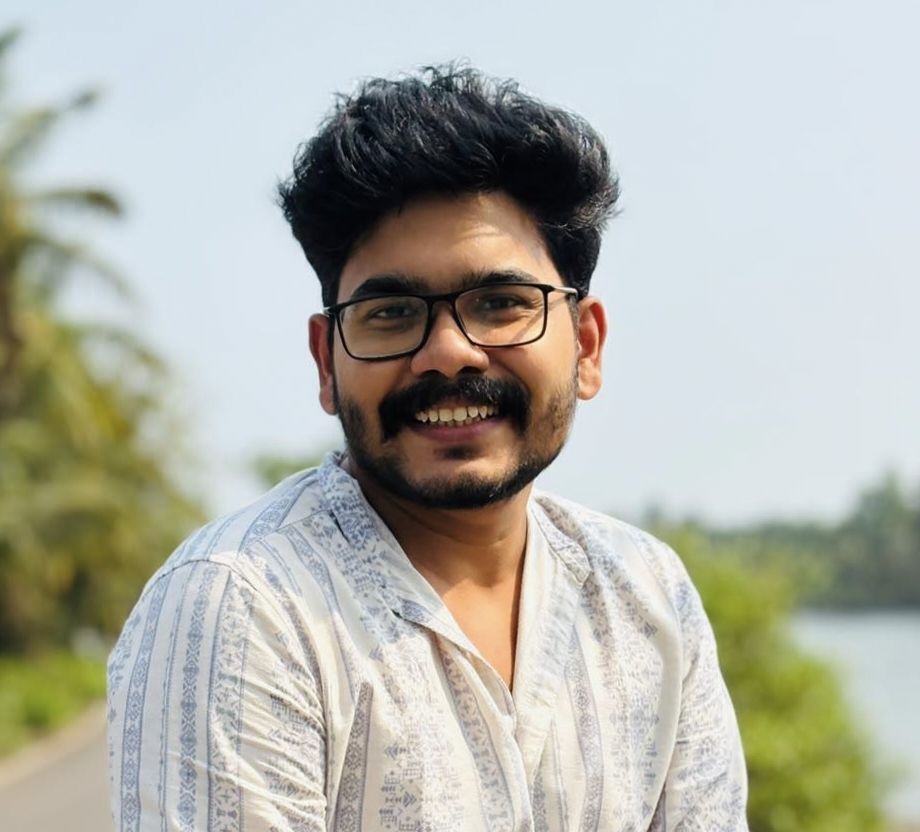
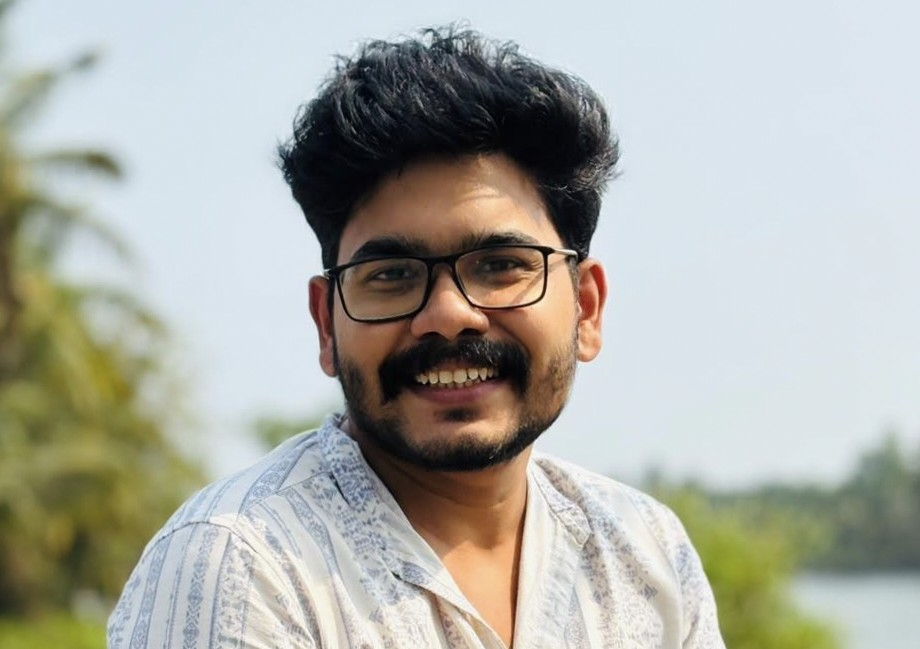
Add all project files

diff --git a/memories.html b/memories.html
@@ -74,7 +74,7 @@
                     <span>01</span>
 
                     <h3>
-                         anaghe ivide njan endh caption aann kodukkande?
+                         LIFE LATELY. A LITTLE REMINDER OF HOW SPECIAL YOU ARE ❤
                     </h3>
 
                     <p>
@@ -104,11 +104,11 @@
                     <span>02</span>
 
                     <h3>
-                        pinne ivide? ✨
+                        THAT SMILE ✨✨
                     </h3>
 
                     <p>
-                        One of my favorite memories.
+                        One of my favorite pic.
                     </p>
 
                 </div>
@@ -123,7 +123,7 @@
                 <div class="image-wrapper">
 
                     <img
-                        src="nb.jpeg"
+                        src="kkjj.jpeg"
                         alt="Memory 3"
                     >
 
@@ -134,7 +134,7 @@
                     <span>03</span>
 
                     <h3>
-                        need caption? 🫶
+                        JUST THE WAY WE ARE 🫶🏻🤍✨
                     </h3>
 
                     <p>
@@ -153,7 +153,7 @@
                 <div class="image-wrapper">
 
                     <img
-                        src="uu.jpeg"
+                        src="nb.jpeg"
                         alt="Memory 4"
                     >
 
@@ -164,11 +164,11 @@
                     <span>04</span>
 
                     <h3>
-                        eeee pic change cheyyano?
+                        🫂  🤍  🫶🏻
                     </h3>
 
                     <p>
-                        Life is better with a friend like you.
+                        Life is better with a person like you.
                     </p>
 
                 </div>

diff --git a/script.js b/script.js
@@ -41,23 +41,17 @@ document.addEventListener(
          * from the previous version.
          */
 
-        const message = `Happy Birthday to one of the most wonderful people in my life! ❤
+        const message = `**Happy birthday to my favourite person. ❤**
 
-I honestly don't know how to put into words how grateful I am to have a monna like you.
+I don’t think I say it enough, but having you in my life means more to me than I can explain. You’ve seen so many different versions of me, stayed through my moods, listened to all my endless talks, and somehow still choose to be here. 😂❤
 
-Thank you for all the laughs, the crazy conversations, the random moments, and for always being yourself.
+Thank you for all the little things you do, for the comfort you give me without even trying, and for all the memories that are so special simply because they’re with you.
 
-You've been there through so many moments, and I hope you know how special you are. Athrakk onnum illa okkk.
+I’m so proud of the person you are, and I genuinely hope this year gives you everything you deserve. I may not always know how to express it perfectly, but I hope you always know how much you mean to me.
 
-Today, I just want you to know that you deserve all the happiness, love, success and beautiful things life has to offer.
+**Happy birthday, ADWAITH. 🎂❤
 
-Never stop smiling. Never stop being the amazing person you are.
-
-Happy Birthday, my love! 🥹❤
-
-Stay happy.
-Stay crazy.
-Stay YOU. 🫶`;
+I’m really, really glad it’s you. 🫶🏻🎂❤**`;
 
 
         let index = 0;

diff --git a/message.html b/message.html
@@ -5,7 +5,7 @@
     <meta charset="UTF-8">
     <meta name="viewport" content="width=device-width, initial-scale=1.0">
 
-    <title>NINAKK VENDI ORU MSG  💌</title>
+    <title>NINAKK VENDI ORU MSG NJAN EZHUTHIYE AANN 💌</title>
 
     <link rel="stylesheet" href="style.css">
 
@@ -38,15 +38,15 @@
         </div>
 
         <p class="small-title">
-            ENTE HEART NN ORU MSG NIKKATTE
+          ITS FROM MY HEART NJAN EZHUTHIYE AANN , SO READ IT CAREFULLY
         </p>
 
         <h1>
 
-            Dear
+      Dear
 
             <span>
-                Adwaitthh (eattaa) ❤
+                         Adwaitthhhhhhhh ❤
             </span>
 
         </h1>

diff --git a/surprise.html b/surprise.html
@@ -55,7 +55,7 @@
 
 
         <p class="small-title">
-            TODAY IS YOUR DAY ✨
+            JUST A LITTLE REMINDER OF HOW MUCH YOU MEAN TO ME ❤ ✨
         </p>
 
 
@@ -136,7 +136,7 @@
             id="cutMessage">
 
             Make a wish and cut the cake 🎂✨
-             ENDHAYALUM NADAKKUM KETTA
+            ITS OUR LITTLE MOMENTS
 
         </p>
 
